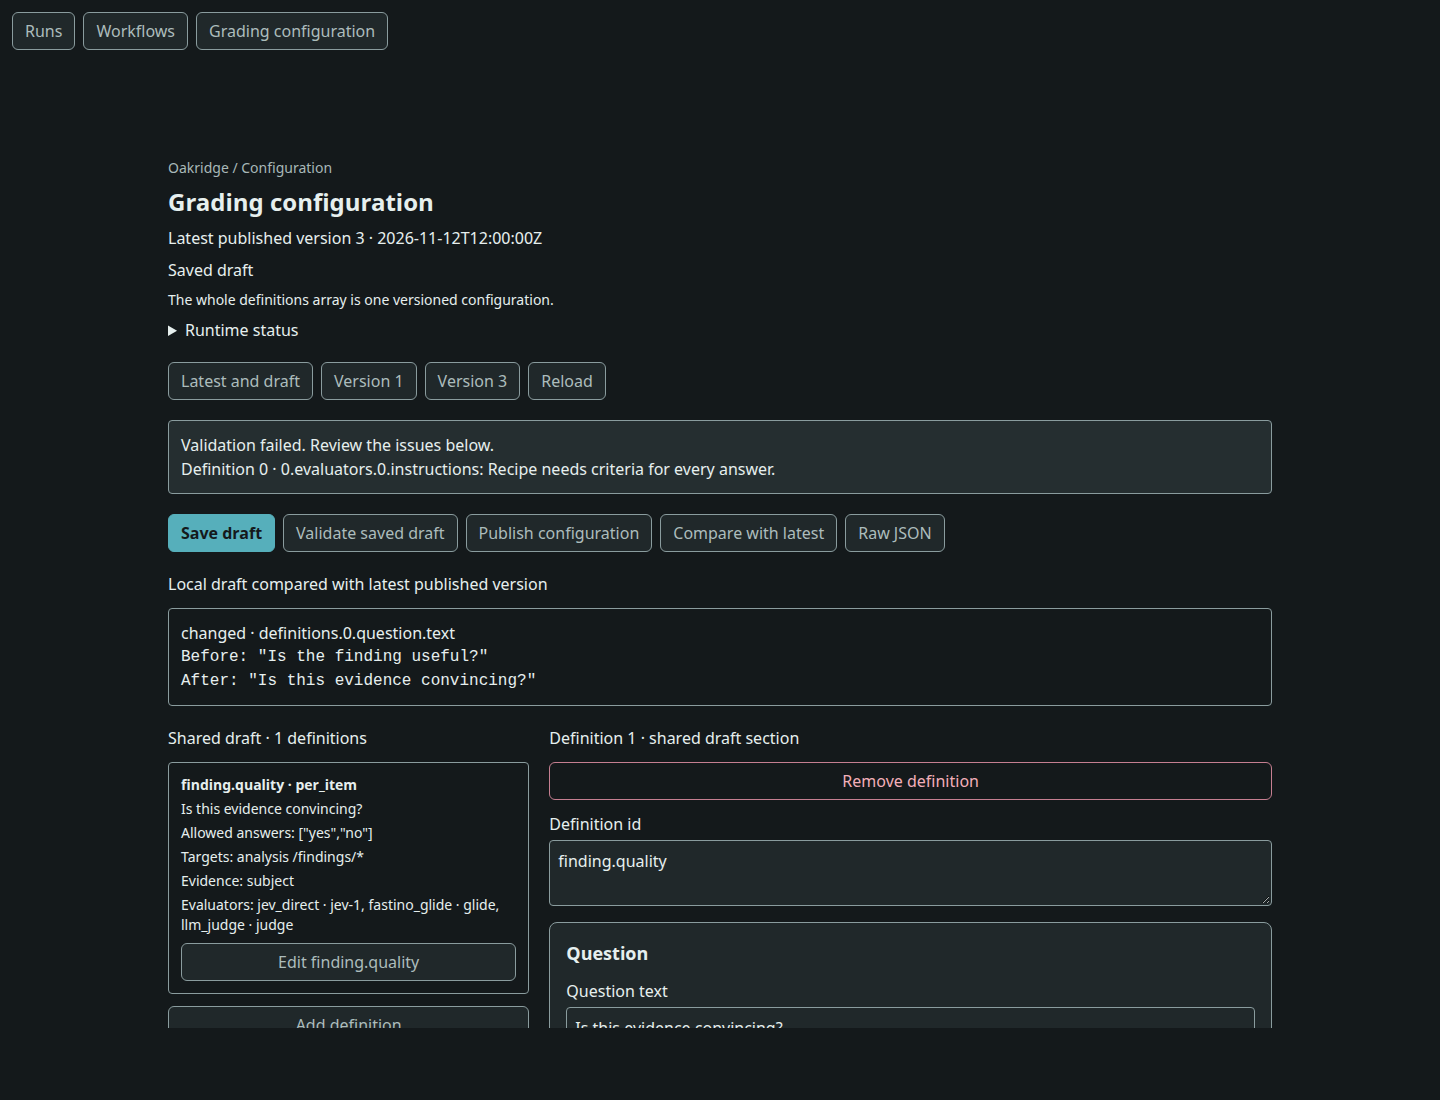
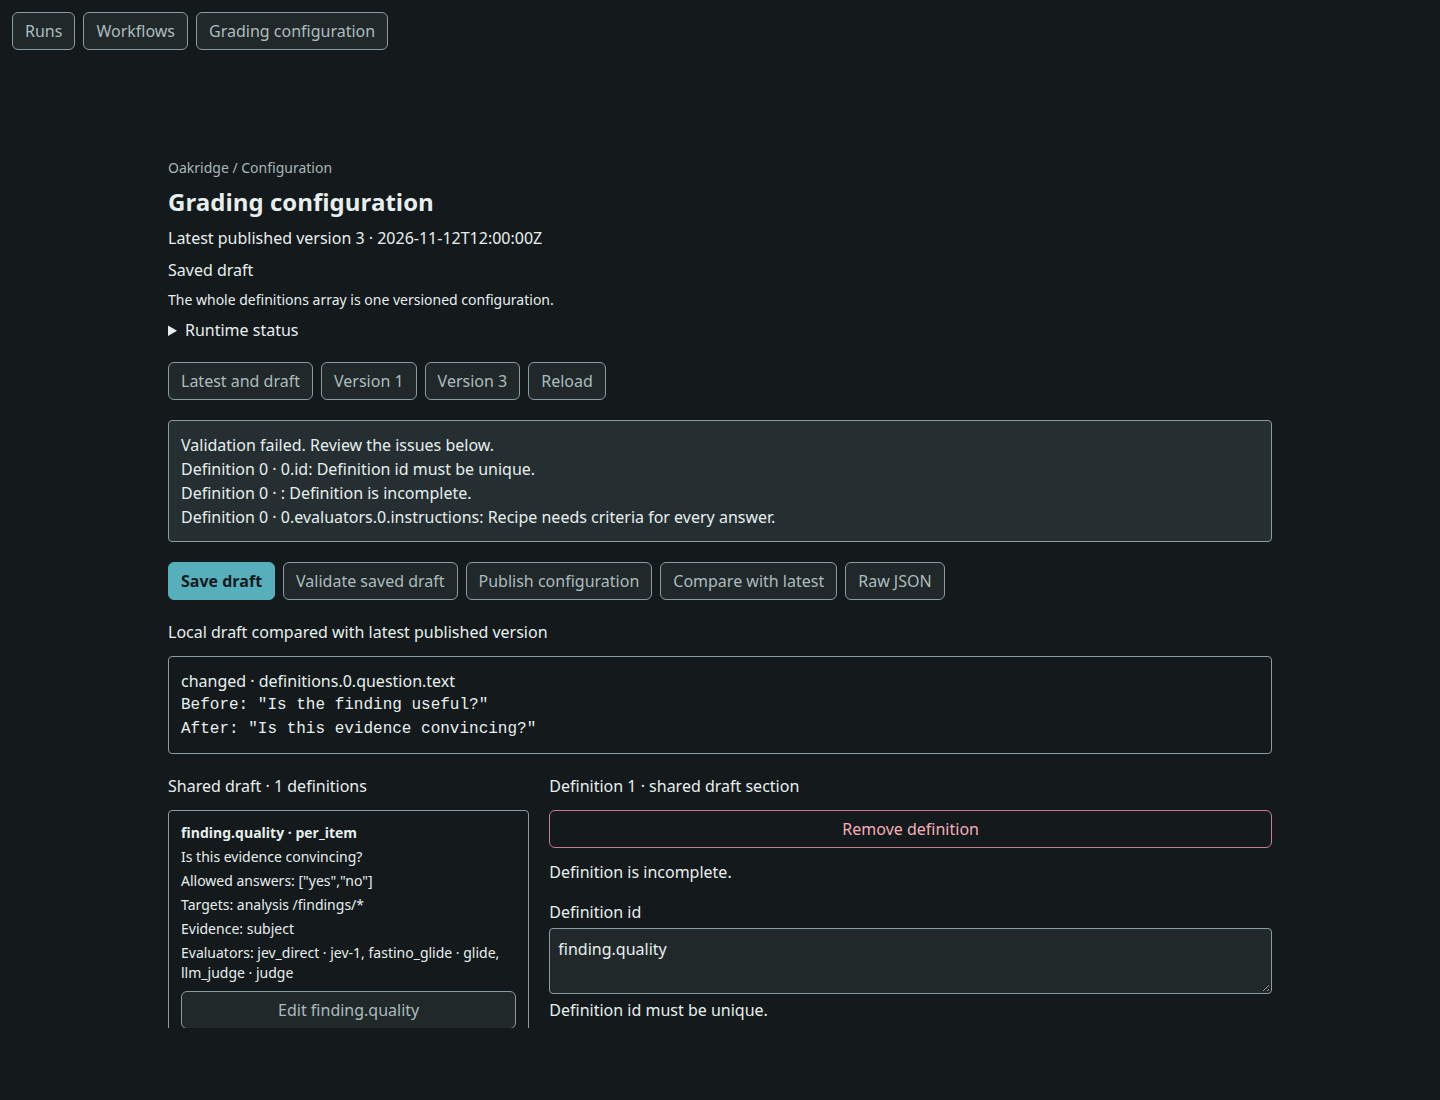
Extract tested catalogue target selectors and refresh validation screenshots

diff --git a/kbbl/core/pwa/oakridge/components/molecules/GradingConfigSections.tsx b/kbbl/core/pwa/oakridge/components/molecules/GradingConfigSections.tsx
@@ -1,7 +1,7 @@
 import { Button } from "../../../components/atoms/Button";
 import type { ObservationJsonValue as Json } from "../../grading-contracts/domain/primitives";
 import type { ObservationGradingCatalogue } from "../../grading-contracts/http/grading-config";
-import { atPath, definitionWithScope, evaluatorWithRunner, jsonList, jsonObject, jsonText, type GradingPath } from "../../lib/grading-config";
+import { atPath, catalogueArtifactKinds, catalogueItemSelectors, definitionWithScope, evaluatorWithRunner, jsonList, jsonObject, jsonText, type GradingPath } from "../../lib/grading-config";
 import { GradingSelect, GradingTextField, type GradingEdit } from "./GradingConfigFields";
 
 export interface GradingSectionProps {
@@ -27,8 +27,8 @@ export function GradingConfigTargets({ definition, catalogue, onEdit, jsonField 
     <GradingSelect label="Scope" value={object.scope} options={["per_item", "per_task"]} onChange={(value) => onEdit([], definitionWithScope(definition, value))} />
     {object.scope === "per_task" && <GradingTextField label="Task pointer (task_ids JSON pointer)" value={object.task_ids} onChange={(value) => onEdit(["task_ids"], value)} />}
     {targets.map((target, index) => <div key={index} className="grid gap-2 rounded border border-[var(--border-muted)] p-3">
-      <GradingSelect label={`Artifact kind ${index + 1}`} value={jsonObject(target).artifact} options={[...new Set(catalogue.selectors.map((selector) => selector.artifact_kind))]} onChange={(value) => onEdit(["targets", index, "artifact"], value)} />
-      <GradingSelect label={`Item selector ${index + 1}`} value={jsonObject(target).selector} options={catalogue.selectors.filter((selector) => selector.artifact_kind === jsonObject(target).artifact).map((selector) => selector.item_selector)} onChange={(value) => onEdit(["targets", index, "selector"], value)} />
+      <GradingSelect label={`Artifact kind ${index + 1}`} value={jsonObject(target).artifact} options={catalogueArtifactKinds(catalogue)} onChange={(value) => onEdit(["targets", index, "artifact"], value)} />
+      <GradingSelect label={`Item selector ${index + 1}`} value={jsonObject(target).selector} options={catalogueItemSelectors(catalogue, jsonObject(target).artifact)} onChange={(value) => onEdit(["targets", index, "selector"], value)} />
       <Button size="small" variant="danger" onClick={() => onEdit(["targets"], targets.filter((_, position) => position !== index))}>Remove target {index + 1}</Button>
     </div>)}
     <Button onClick={() => onEdit(["targets"], [...targets, { artifact: catalogue.selectors[0]?.artifact_kind ?? "", selector: catalogue.selectors[0]?.item_selector ?? "" }])}>Add target</Button>

diff --git a/kbbl/core/pwa/oakridge/lib/grading-config.test.ts b/kbbl/core/pwa/oakridge/lib/grading-config.test.ts
@@ -1,10 +1,33 @@
 import { describe, expect, it } from "vitest";
-import { configurationDiff, configurationHeader, createDraft, definitionSummaries, editDraft, parseDefinitions, publicationFailure, publicationFeedback, saveFailed, saveSucceeded, sectionIssues, definitionWithScope, evaluatorWithRunner } from "./grading-config";
+import { catalogueArtifactKinds, catalogueItemSelectors, configurationDiff, configurationHeader, createDraft, definitionSummaries, editDraft, parseDefinitions, publicationFailure, publicationFeedback, saveFailed, saveSucceeded, sectionIssues, definitionWithScope, evaluatorWithRunner } from "./grading-config";
 import type { ObservationPublicationError } from "../grading-contracts/grading/publication";
+import type { ObservationGradingCatalogue } from "../grading-contracts/http/grading-config";
 
 import type { ObservationJsonValue } from "../grading-contracts/domain/primitives";
 
 const definitions: readonly ObservationJsonValue[] = [{ id: "quality", scope: "per_item", targets: [{ artifact: "finding", selector: "/items" }], evidence: ["source", { capability: "code", params: {} }], question: { text: "Useful?", values: [true, false] }, evaluators: [{ runner: "llm_judge", model: "test" }, { runner: "human" }] }];
+const catalogue: ObservationGradingCatalogue = {
+  selectors: [
+    { artifact_kind: "analysis", item_selector: "/findings/*", item_kind: "finding", item_fields: [] },
+    { artifact_kind: "assessment", item_selector: "/items/*", item_kind: "finding", item_fields: [] },
+    { artifact_kind: "analysis", item_selector: "/tasks/*", item_kind: "task", item_fields: [] },
+  ],
+  evidence_capabilities: [], runners: [],
+};
+describe("grading catalogue options", () => {
+  it("selects unique artifact kinds in catalogue order", () => {
+    expect(catalogueArtifactKinds(catalogue)).toEqual(["analysis", "assessment"]);
+  });
+  it("selects only the item selectors registered for the artifact kind", () => {
+    expect(catalogueItemSelectors(catalogue, "analysis")).toEqual(["/findings/*", "/tasks/*"]);
+  });
+  it("offers no item selectors for an unregistered artifact kind", () => {
+    expect(catalogueItemSelectors(catalogue, "unknown")).toEqual([]);
+  });
+  it("offers no artifact kinds for an empty catalogue", () => {
+    expect(catalogueArtifactKinds({ ...catalogue, selectors: [] })).toEqual([]);
+  });
+});
 describe("the shared grading draft", () => {
   it("edits a nested path without changing the base document or concurrency tokens", () => {
     const state = createDraft({ document: { status: "draft", definitions }, digest: "base" }, 4);

diff --git a/kbbl/core/pwa/oakridge/lib/grading-config.ts b/kbbl/core/pwa/oakridge/lib/grading-config.ts
@@ -2,6 +2,7 @@ import type { ObservationJsonValue as Json } from "../grading-contracts/domain/p
 import type { ObservationConfigurationIssue, ObservationPublishedConfiguration } from "../grading-contracts/grading/configuration";
 import type { ObservationStoredDraft } from "../grading-contracts/grading/configuration-store";
 import type { ObservationPublicationError, ObservationPublicationOutcome } from "../grading-contracts/grading/publication";
+import type { ObservationGradingCatalogue } from "../grading-contracts/http/grading-config";
 
 export type GradingPath = readonly (string | number)[];
 export interface GradingDraftState {
@@ -86,6 +87,10 @@ export const configurationHeader = (state: GradingDraftState, latest: Observatio
   published: latest ? `Latest published version ${latest.version} · ${latest.published_at}` : "No published version",
   draft: state.dirty ? "Unsaved local edits" : state.baseDigest ? "Saved draft" : "No draft",
 });
+export const catalogueArtifactKinds = (catalogue: ObservationGradingCatalogue): readonly string[] =>
+  [...new Set(catalogue.selectors.map((selector) => selector.artifact_kind))];
+export const catalogueItemSelectors = (catalogue: ObservationGradingCatalogue, artifactKind: Json | undefined): readonly string[] =>
+  catalogue.selectors.filter((selector) => selector.artifact_kind === artifactKind).map((selector) => selector.item_selector);
 export function configurationDiff(before: Json | undefined, after: Json | undefined, path: GradingPath = []): readonly GradingDifference[] {
   if (JSON.stringify(before) === JSON.stringify(after)) return [];
   if (before === undefined || after === undefined) return [{ kind: before === undefined ? "added" : "removed", path, before, after }];
